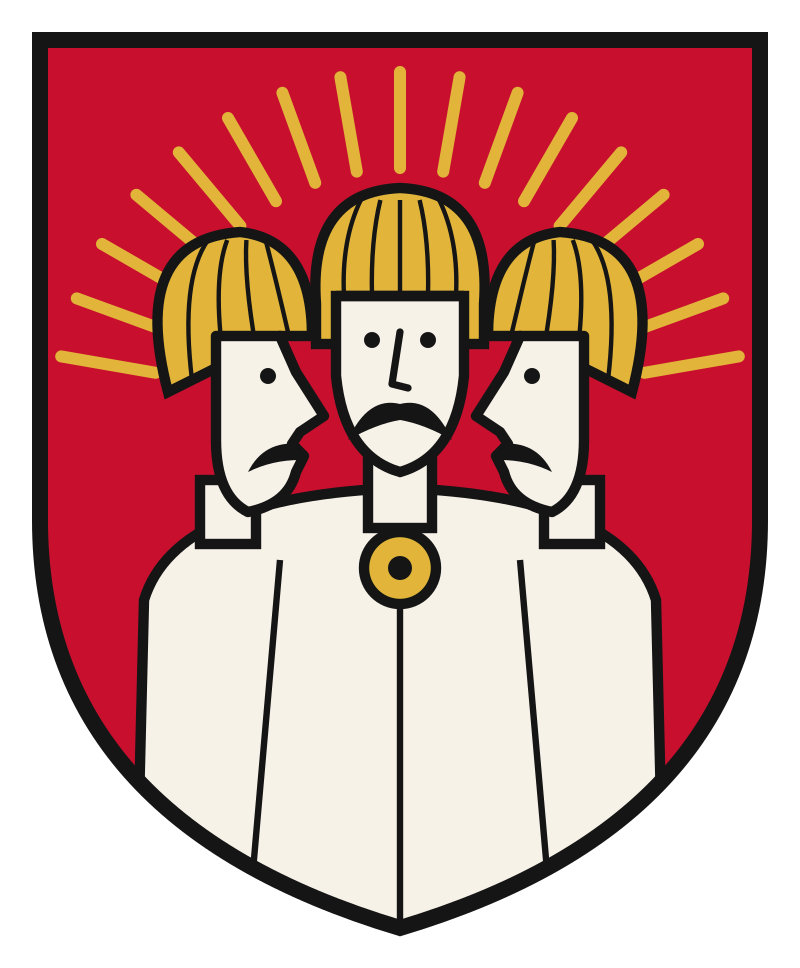
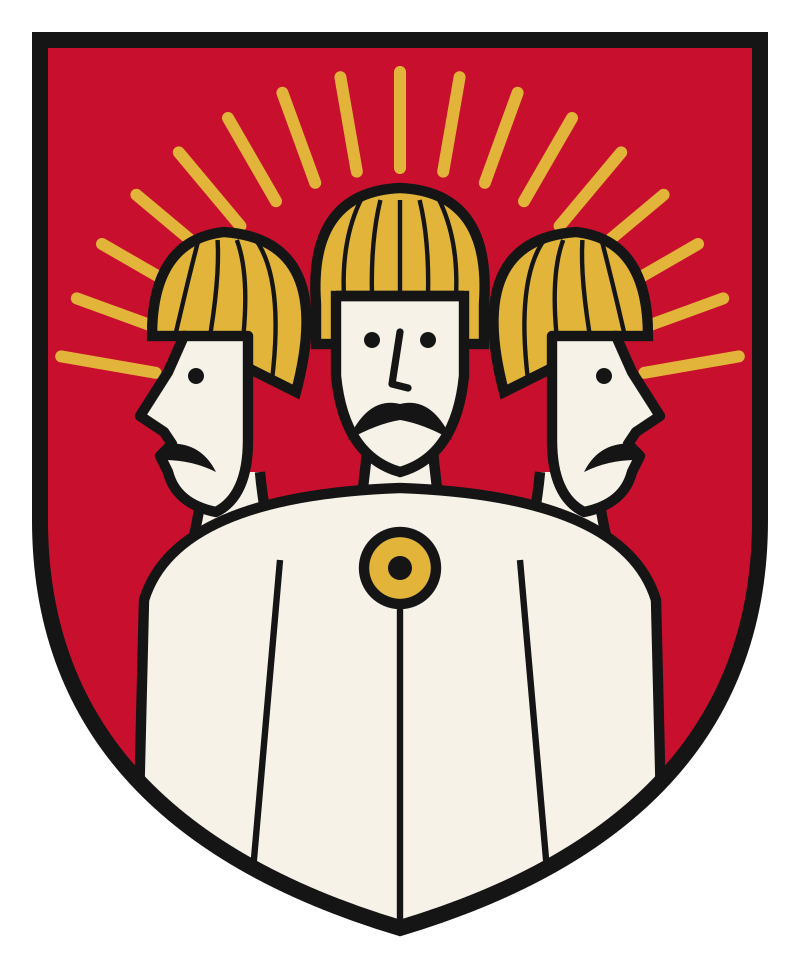
Trygław: boczne głowy patrzą na zewnątrz, zwężające się szyje
Claude-Session: https://claude.ai/code/session_01PNyJEgjZDVeUSFrp2WbnmN

Changed region(s): [[0.5938, 0.2169, 0.8438, 0.5888], [0.1562, 0.2169, 0.4062, 0.5888], [0.4375, 0.4649, 0.5625, 0.5579]]

diff --git a/gfx_koncepty/flagi_polabie/rysuj_tryglawa.py b/gfx_koncepty/flagi_polabie/rysuj_tryglawa.py
@@ -24,6 +24,11 @@ def head_profile(cx,cy,d):
     must=f'<path d="M{X(-17)},{cy+21} Q{X(-8)},{cy+20} {X(-4)},{cy+28} Q{X(-10)},{cy+25} {X(-17)},{cy+25}Z" fill="{K}"/>'
     strands=''.join(f'<path d="M{X(dx)},{cy-6+ (dx+12)*0.5:.1f} Q{X(dx+3)},{cy-20} {X(dx*0.6)},{cy-30}" stroke="{K}" stroke-width="1.1" fill="none"/>' for dx in (-14,-6,2,10))
     return hair+strands+face+eye+must
+def neck(cx,top,bot,wt,wb):
+    return (f'<path d="M{cx-wt},{top} L{cx-wb},{bot} L{cx+wb},{bot} L{cx+wt},{top}Z" fill="{W}"/>'
+            f'<path d="M{cx-wt},{top} Q{cx-wt-1},{(top+bot)/2} {cx-wb},{bot} M{cx+wt},{top} Q{cx+wt+1},{(top+bot)/2} {cx+wb},{bot}" stroke="{K}" stroke-width="{sw}" fill="none"/>')
+def necks():
+    return neck(100,110,134,8,11)+neck(58,118,140,7,11)+neck(142,118,140,7,11)
 def body():
     m=f'<path d="M34,232 L36,150 Q44,124 100,122 Q156,124 164,150 L166,232Z" fill="{W}" stroke="{K}" stroke-width="{sw}"/>'
     fold=f'<path d="M100,140 L100,232 M70,140 L62,232 M130,140 L138,232" stroke="{K}" stroke-width="1.6" fill="none"/>'
@@ -41,9 +46,8 @@ def nimbus_rays():
         rays+=f'<line x1="{100+r1*ca:.1f}" y1="{104+r1*sa:.1f}" x2="{100+r2*ca:.1f}" y2="{104+r2*sa:.1f}" stroke="{G}" stroke-width="3" stroke-linecap="round"/>'
     return rays
 body_svg=(f'<defs><clipPath id="c"><path d="{S}"/></clipPath></defs><path d="{S}" fill="{RED}"/>'
-          f'<g clip-path="url(#c)">{nimbus_rays()}{body()}'
-          f'<rect x="50" y="120" width="14" height="16" fill="{W}" stroke="{K}" stroke-width="{sw}"/><rect x="136" y="120" width="14" height="16" fill="{W}" stroke="{K}" stroke-width="{sw}"/><rect x="92" y="114" width="16" height="18" fill="{W}" stroke="{K}" stroke-width="{sw}"/>'
-          f'{head_profile(58,90,-1)}{head_profile(142,90,1)}{head_front(100,80)}</g>'
+          f'<g clip-path="url(#c)">{nimbus_rays()}{necks()}{body()}'
+          f'{head_profile(58,90,1)}{head_profile(142,90,-1)}{head_front(100,80)}</g>'
           f'<path d="{S}" fill="none" stroke="{K}" stroke-width="4"/>')
 svg=f'<svg xmlns="http://www.w3.org/2000/svg" viewBox="0 0 200 242" width="800" height="968">{body_svg}</svg>'
 open(__import__("os").path.join(__import__("os").path.dirname(__import__("os").path.abspath(__file__)),"..","emblematy","tryglaw_herb.svg"),"w").write(svg)
